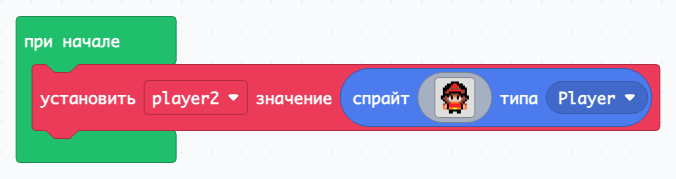
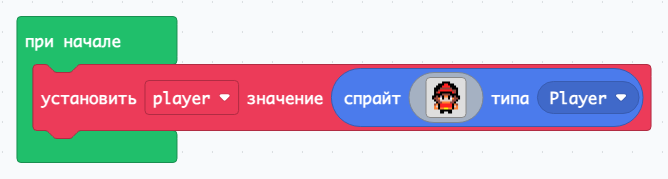
Make first lesson desktop-friendly with structured step guidance

diff --git a/src/styles.css b/src/styles.css
@@ -87,6 +87,52 @@ figcaption { margin-top: 18px; font-size: 14px; color: #6b7286; }
 .result-card .explanation { margin: 18px auto 30px; max-width: 550px; }
 .storage-note { padding: 12px 16px; margin-bottom: 16px; border-radius: 10px; background: #fff5d8; color: #6a4c10; }
 .sr-only { position: absolute; width: 1px; height: 1px; padding: 0; margin: -1px; overflow: hidden; clip: rect(0, 0, 0, 0); white-space: nowrap; border: 0; }
+.step-card { display: grid; grid-template-columns: minmax(0, 62fr) minmax(0, 38fr); overflow: visible; }
+.step-card .blocks-picture { display: flex; flex-direction: column; align-items: center; justify-content: center; min-width: 0; margin: 12px; padding: 12px; }
+.step-card .blocks-picture img { width: 100%; height: auto; max-height: calc(100dvh - 280px); object-fit: contain; }
+.step-card figcaption { margin-top: 10px; }
+.step-content { min-width: 0; padding: 16px 18px 16px 6px; display: flex; flex-direction: column; gap: 8px; font-size: 16px; line-height: 1.4; }
+.step-card .card-intro { padding: 0; }
+.step-card .step-label { padding: 3px 9px; font-size: 14px; margin-bottom: 6px; }
+.step-card h2 { font-size: 26px; }
+.step-card h3 { font-size: 17px; margin-bottom: 4px; }
+.step-card .block-guide { margin: 0; padding: 0; border: 0; background: none; }
+.step-card .block-guide ul { grid-template-columns: 1fr; gap: 6px; margin-top: 8px; }
+.step-card .block-guide li { display: flex; align-items: baseline; gap: 8px; border: 0; padding: 0; overflow-wrap: normal; }
+.step-card .block-guide strong { font-size: 15px; font-weight: 600; }
+.step-card .block-category { flex-shrink: 0; display: inline-block; margin: 0; padding: 2px 7px; border-radius: 6px; font-size: 12px; color: white; background: #654bc7; }
+.step-card .block-category[data-category="Спрайты"] { background: #316ab5; }
+.step-card .block-category[data-category="Контроллер"] { background: #b43c26; }
+.step-card .block-category[data-category="Игра"] { background: #8051a8; }
+.step-card .block-category[data-category="Информация"] { background: #a93067; }
+.step-card .block-category[data-category="Логика"] { background: #217c92; }
+.step-card .block-category[data-category="Математика"] { background: #7652b4; }
+.step-card .block-category[data-category="Переменные"] { background: #b53554; }
+.step-card .block-category[data-category="Циклы"] { background: #31773d; }
+.step-card .expected, .step-card .challenge { padding: 9px 12px; border-radius: 10px; }
+.step-theory { border-top: 1px solid #e2e5ef; padding-top: 8px; }
+.step-theory summary { cursor: pointer; font-weight: 650; color: #5d43b1; }
+.step-theory summary:focus-visible { outline: 3px solid #6a54db; outline-offset: 4px; border-radius: 4px; }
+.step-theory p { margin-top: 10px; color: #555e74; }
+@media (min-width: 1024px) {
+  .lesson-screen { width: min(1600px, 100% - 48px); }
+  .lesson-screen .lesson-header { display: grid; grid-template-columns: 1fr auto; align-items: center; gap: 8px 24px; padding: 12px 0; }
+  .lesson-screen .lesson-heading { margin: 0; gap: 16px; align-items: center; }
+  .lesson-screen h1 { font-size: 28px; }
+  .lesson-screen .eyebrow { display: none; }
+  .lesson-screen .lesson-meta { padding: 0; }
+  .lesson-screen .step-track { grid-column: 1 / -1; }
+  .lesson-screen .step-track li > span:first-child { width: 26px; height: 26px; font-size: 14px; }
+  .step-card { min-height: calc(100dvh - 194px); }
+  .lesson-screen .navigation { padding: 12px 0; }
+  .lesson-screen .button { min-height: 44px; padding: 9px 22px; font-size: 17px; }
+  .lesson-screen .page-footer { padding: 0 0 8px; font-size: 12px; }
+}
+@media (max-width: 1023px) {
+  .step-card { grid-template-columns: 1fr; }
+  .step-content { padding: 20px; }
+  .step-card .blocks-picture img { max-height: none; }
+}
 @media (max-width: 760px) {
   .app-shell { width: min(100% - 32px, 1120px); }
   .lesson-heading { flex-direction: column; align-items: flex-start; gap: 16px; }

diff --git a/src/App.tsx b/src/App.tsx
@@ -78,7 +78,7 @@ export default function App() {
   }
 
   return (
-    <div className="app-shell">
+    <div className={`app-shell ${progress.phase === 'lesson' ? 'lesson-screen' : ''}`}>
       <header className="lesson-header">
         <div className="brand"><span className="brand-mark" aria-hidden="true">✦</span> ICUBE <span className="brand-note">учимся создавать игры</span></div>
         <div className="lesson-heading">
@@ -100,31 +100,34 @@ export default function App() {
         {storageFailed && <p className="storage-note" role="status">Не удалось сохранить прогресс. Оставь вкладку открытой, чтобы продолжить урок.</p>}
 
         {progress.phase === 'lesson' && <>
-          <section className="lesson-card" aria-labelledby="screen-title">
-            <div className="card-intro">
-              <p className="step-label">Шаг {progress.step + 1} из {lesson.steps.length}</p>
-              <h2 id="screen-title" ref={heading} tabIndex={-1}>{step.title}</h2>
-              <p className="explanation">{step.explanation}</p>
-            </div>
+          <section className="lesson-card step-card" aria-labelledby="screen-title">
             <figure className="blocks-picture">
               {imageFailed || !images[imageKey]
                 ? <p role="alert">Не удалось загрузить картинку блоков. Попробуй обновить страницу.</p>
                 : <img src={images[imageKey]} alt={`Блоки MakeCode: ${step.title}`} onError={() => setImageFailed(true)} />}
               <figcaption>Собери эти блоки в MakeCode Arcade</figcaption>
             </figure>
-            <section className="block-guide" aria-labelledby="block-guide-title">
-              <h3 id="block-guide-title">Где искать</h3>
-              <ul>
-                {step.blocks.map((block, index) => <li key={index}>
-                  <span className="block-category">{block.category}</span>
-                  <strong>«{block.name}»</strong>
-                  <p>{block.purpose}</p>
-                </li>)}
-              </ul>
-            </section>
-            <div className="step-notes">
-              <section className="challenge"><h3><span aria-hidden="true">✦</span> Попробуй сам</h3><p>{step.challenge}</p></section>
-              <section className="expected"><h3><span aria-hidden="true">✓</span> Что получится</h3><p>{step.expectedResult}</p></section>
+            <div className="step-content">
+              <div className="card-intro">
+                <p className="step-label">Шаг {progress.step + 1} из {lesson.steps.length}</p>
+                <h2 id="screen-title" ref={heading} tabIndex={-1}>{step.title}</h2>
+              </div>
+              <section className="step-goal"><h3>Что делаем</h3><p>{step.goal}</p></section>
+              <section className="block-guide" aria-labelledby="block-guide-title">
+                <h3 id="block-guide-title">Где найти</h3>
+                <ul>
+                  {step.blocks.map((block, index) => <li key={index}>
+                    <span className="block-category" data-category={block.category}>{block.category}</span>
+                    <strong>«{block.name}»</strong>
+                  </li>)}
+                </ul>
+              </section>
+              <section className="expected"><h3>Проверь</h3><p>{step.check}</p></section>
+              <section className="challenge"><h3>Попробуй сам</h3><p>{step.challenge}</p></section>
+              <details className="step-theory" key={step.id}>
+                <summary>Почему это работает?</summary>
+                <p>{step.theory}</p>
+              </details>
             </div>
           </section>
           <nav className="navigation" aria-label="Переход между шагами">

diff --git a/lessons/collect-stars-01/steps/step06.ts b/lessons/collect-stars-01/steps/step06.ts
@@ -13,13 +13,13 @@ sprites.onOverlap(SpriteKind.Player, SpriteKind.Star, function (sprite, otherSpr
 
 let star: Sprite = null
 
-let player2 = sprites.create(
+let player = sprites.create(
     sprites.castle.heroWalkFront1,
     SpriteKind.Player
 )
 
-controller.moveSprite(player2, 100, 100)
-player2.setStayInScreen(true)
+controller.moveSprite(player, 100, 100)
+player.setStayInScreen(true)
 
 star = sprites.create(img`
     . . . . . . . . . . . . . . . .

diff --git a/lessons/collect-stars-01/steps/step05.ts b/lessons/collect-stars-01/steps/step05.ts
@@ -9,13 +9,13 @@ sprites.onOverlap(SpriteKind.Player, SpriteKind.Star, function (sprite, otherSpr
 
 let star: Sprite = null
 
-let player2 = sprites.create(
+let player = sprites.create(
     sprites.castle.heroWalkFront1,
     SpriteKind.Player
 )
 
-controller.moveSprite(player2, 100, 100)
-player2.setStayInScreen(true)
+controller.moveSprite(player, 100, 100)
+player.setStayInScreen(true)
 
 star = sprites.create(img`
     . . . . . . . . . . . . . . . .

diff --git a/lessons/collect-stars-01/steps/step03.ts b/lessons/collect-stars-01/steps/step03.ts
@@ -2,13 +2,13 @@ namespace SpriteKind {
     export const Star = SpriteKind.create()
 }
 
-let player2 = sprites.create(
+let player = sprites.create(
     sprites.castle.heroWalkFront1,
     SpriteKind.Player
 )
 
-controller.moveSprite(player2, 100, 100)
-player2.setStayInScreen(true)
+controller.moveSprite(player, 100, 100)
+player.setStayInScreen(true)
 
 let star = sprites.create(img`
     . . . . . . . . . . . . . . . .

diff --git a/lessons/collect-stars-01/steps/step04.ts b/lessons/collect-stars-01/steps/step04.ts
@@ -2,13 +2,13 @@ namespace SpriteKind {
     export const Star = SpriteKind.create()
 }
 
-let player2 = sprites.create(
+let player = sprites.create(
     sprites.castle.heroWalkFront1,
     SpriteKind.Player
 )
 
-controller.moveSprite(player2, 100, 100)
-player2.setStayInScreen(true)
+controller.moveSprite(player, 100, 100)
+player.setStayInScreen(true)
 
 let star = sprites.create(img`
     . . . . . . . . . . . . . . . .

diff --git a/lessons/collect-stars-01/steps/step02.ts b/lessons/collect-stars-01/steps/step02.ts
@@ -1,7 +1,7 @@
-let player2 = sprites.create(
+let player = sprites.create(
     sprites.castle.heroWalkFront1,
     SpriteKind.Player
 )
 
-controller.moveSprite(player2, 100, 100)
-player2.setStayInScreen(true)
+controller.moveSprite(player, 100, 100)
+player.setStayInScreen(true)

diff --git a/lessons/collect-stars-01/steps/step01.ts b/lessons/collect-stars-01/steps/step01.ts
@@ -1,4 +1,4 @@
-let player2 = sprites.create(
+let player = sprites.create(
     sprites.castle.heroWalkFront1,
     SpriteKind.Player
 )
